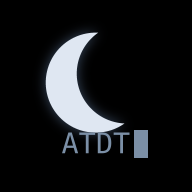
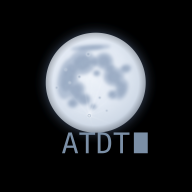
Add files via upload

Changed region(s): [[0.2188, 0.1562, 0.7812, 0.6875], [0.6875, 0.6562, 0.7812, 0.8438]]

diff --git a/index.html b/index.html
@@ -13,7 +13,7 @@
 <link rel="icon" href="icon-192.png">
 <link rel="apple-touch-icon" href="apple-touch-icon.png">
 <style>html,body{background:#000}</style>
-<style>#splash{display:none}.launch #splash{display:block;position:fixed;inset:0;z-index:300;background:#000;transition:opacity .35s ease;animation:splash-bye .35s ease 5s forwards}@keyframes splash-bye{to{opacity:0;visibility:hidden}}#splash.out{opacity:0;pointer-events:none}#splash svg{position:absolute;left:50%;top:50%;margin:-137px 0 0 -137px;transform:translateY(var(--spy,0px))}#splash.blink #spc{visibility:hidden}</style>
+<style>#splash{display:none}.launch #splash{display:block;position:fixed;inset:0;z-index:300;background:#000;transition:opacity .35s ease;animation:splash-bye .35s ease 9s forwards}@keyframes splash-bye{to{opacity:0;visibility:hidden}}#splash.out{opacity:0;pointer-events:none}#splash svg{position:absolute;left:50%;top:50%;margin:-137px 0 0 -137px;transform:translateY(var(--spy,0px))}#splash.blink #spc{visibility:hidden}</style>
 <script>try{if(matchMedia("(display-mode: standalone)").matches||navigator.standalone||/[?&]splash\b/.test(location.search)){const r=document.documentElement,b=Math.max(0,screen.height-innerHeight);r.classList.add("launch");r.style.setProperty("--spy",Math.max(-24,Math.min(24,b/2-Math.min(32,b)))+"px")}}catch(e){}</script>
 </head>
 <body>
@@ -198,7 +198,7 @@ footer{margin:26px 0 10px;color:var(--ink-faint);font-size:.88em;line-height:1.9
       <label>취침 타이머 <button id="timerbtn">끄지 않음</button></label>
       <span id="timernote" class="faint"></span>
     </div>
-    <p class="note faint" style="margin-top:10px">화면을 꺼도 재생이 이어지도록 처리해 두었습니다. 지금 그대로 끄고 주무셔도 됩니다(갤럭시 기준). 아이폰은 크롬 사용을 권장합니다.</p>
+    <p class="note faint" style="margin-top:10px">화면을 꺼도 재생이 이어지도록 처리해 두었습니다. 지금 그대로 끄고 주무셔도 됩니다(갤럭시 기준).</p>
     <p class="note ac" id="noaudio" style="margin-top:10px" hidden></p>
   </div>
   <p class="whisper"><button id="awakebtn">정말 잠이 안 오시나요?</button></p>
@@ -225,7 +225,7 @@ footer{margin:26px 0 10px;color:var(--ink-faint);font-size:.88em;line-height:1.9
     <p class="note">수면을 위한 PC통신 심야접속에 들어오셨습니다. 소리는 전부 무료고, 아무도 당신을 깨우지 않습니다. 화면 테두리는 슬리핑백입니다 — 당신은 지금 그 안에 있습니다.</p>
     <hr>
     <p class="dim">· <span class="hi">소리</span> — 다섯 채널 모두 접속한 당신의 단말기가 그 자리에서 만드는 소리입니다. 녹음된 음원이 없으니 권리 문제도, 서버 비용도 없습니다. 분홍 소음 위에 파도·비·바람·불을 얹었습니다.</p>
-    <p class="dim">· <span class="hi">화면은 꺼도 됩니다</span> — 지금 그대로 끄고 주무셔도 됩니다(갤럭시 기준). 아이폰은 크롬 사용을 권장합니다.</p>
+    <p class="dim">· <span class="hi">화면은 꺼도 됩니다</span> — 지금 그대로 끄고 주무셔도 됩니다(갤럭시 기준).</p>
     <p class="dim">· <span class="hi">비행기 모드</span> — 심야접속은 스트리밍이 아닙니다. 프로그래밍입니다. 따라서 접속 후에는 비행기 모드로 바꾸셔도 정상 작동합니다. 한 번 접속한 브라우저에서는 다음부터 인터넷 없이도 열립니다.</p>
     <p class="dim">· <span class="hi">취침 타이머</span> — 청취방에서 30분, 또는 1시간부터 8시간까지 고르면 그 시각에 조용히 멈춥니다.</p>
     <p class="dim">· <span class="hi">가입 없음</span> — 아이디도, 전화번호도, 이메일도 받지 않습니다. 남는 것은 이 단말기 안의 "함께 한 시간"뿐입니다.</p>
@@ -334,6 +334,8 @@ function ensureCtx(){
   if(AU.ctx)return;if(IS_IOS){try{if(navigator.audioSession)navigator.audioSession.type="playback"}catch(e){}}const AC=window.AudioContext||window.webkitAudioContext;
   /* 'playback'은 출력 버퍼를 넉넉히 잡는다. 다른 프로그램이 CPU를 잠깐 다 써도(페이스북 알림 같은) 소리가 끊기지 않게. 잠드는 소리엔 지연이 상관없다 */
   try{AU.ctx=new AC({latencyHint:"playback"})}catch(e){diagNote("맥락(playback)",e);try{AU.ctx=new AC()}catch(e2){diagNote("맥락",e2);if(IS_IOS&&navigator.audioSession){try{navigator.audioSession.type="auto"}catch(_){}AU.ctx=new AC()}else throw e2}}
+  /* 시스템이 소리 장치를 멈추면(아이폰: 이어폰을 뺄 때 등) 소리가 나야 할 때·보이는 동안엔 바로 다시 깨운다 */
+  AU.ctx.onstatechange=()=>{const c=AU.ctx,s=c.state;if(s==="running"||s==="closed")return;diagNote("소리 장치",s);const want=()=>AU.curId||performance.now()<(AU.modemEnd||0),wake=()=>{if(c.state!=="running"&&c.state!=="closed"&&!document.hidden&&want())c.resume().catch(e=>diagNote("다시 깨우기",e))};if(!want())return;if(document.hidden)document.addEventListener("visibilitychange",function v(){if(!document.hidden){document.removeEventListener("visibilitychange",v);setTimeout(wake,250)}});else setTimeout(wake,250)};
   AU.timerGain=AU.ctx.createGain();AU.master=AU.ctx.createGain();AU.master.gain.value=volCurve(ls.get("vol",35));
   AU.comp=AU.ctx.createDynamicsCompressor();AU.comp.threshold.value=-14;AU.comp.ratio.value=5;AU.comp.attack.value=0.01;AU.comp.release.value=0.3;
   AU.analyser=AU.ctx.createAnalyser();AU.analyser.fftSize=512;AU.analyser.smoothingTimeConstant=0.35;
@@ -492,24 +494,26 @@ document.addEventListener("keydown",e=>{
 let booted=false,bootTimers=[],canSkip=false,dialedWithSound=false;
 const LOG_FULL=[[0,"ATDT 0131033"],[0.3,"DIALING ........"],[2.2,"CARRIER DETECTED"],[3.1,"HANDSHAKE  V.32bis"],[4.8,"TRAINING ............"],[8.8,"EQUALIZING ......"],[11.7,"PROTOCOL: LAP-M   COMPRESSION: V.42bis"],[14.9,"CONNECT 14400"],[15.5,"심야접속 BBS에 오신 것을 환영합니다.\n회선은 느리고, 밤은 깁니다."]];
 const LOG_QUIET=[[0,"ATDT 0131033  (무음)"],[0.5,"CONNECT 14400"],[1.0,"심야접속 BBS에 오신 것을 환영합니다.\n회선은 느리고, 밤은 깁니다."]];
+/* 소리 장치를 막 켰으면 오디오 시계가 실제로 흐를 때까지(아이폰 0.4초, 그 밖 0.25초, 최대 1.5초) 기다렸다가 부른다 — 켜는 순간 앞소리가 잘리지 않게 */
+function whenAudible(fn,fresh){if(!fresh||!AU.ctx)return fn();const t0=performance.now(),need=IS_IOS?0.4:0.25;let c0=null;const poll=()=>{const c=AU.ctx;if(c.state==="running"){if(c0===null)c0=c.currentTime;if(c.currentTime-c0>=need)return fn()}if(performance.now()-t0>1500)return fn();bootTimers.push(setTimeout(poll,30))};poll()}
 function runConnect(withSound){
-  if(bootTimers.length||booted)return;const log=$("#introlog");log.hidden=false;log.textContent="";log.innerHTML="";$("#dialbtn").disabled=true;$("#quietbtn").disabled=true;
+  if(bootTimers.length||booted)return;const fresh=!AU.ctx||AU.ctx.state!=="running";const log=$("#introlog");log.hidden=false;log.textContent="";log.innerHTML="";$("#dialbtn").disabled=true;$("#quietbtn").disabled=true;
   try{ensureCtx();ensureRoute();if(AU.ctx.state!=="running")AU.ctx.resume().catch(e=>diagNote("깨우기",e));if(IS_IOS){const b=AU.ctx.createBuffer(1,1,AU.ctx.sampleRate),u=AU.ctx.createBufferSource();u.buffer=b;u.connect(AU.ctx.destination);u.start(0)}}catch(e){diagNote("접속 준비",e)}
   const hang=withSound&&AU.curId?(stopAll(),600):0;
   const go=()=>{
-  let total=0;if(withSound){modemDirectOn();try{total=modemPlay()}catch(e){total=0;diagNote("모뎀",e)}if(total)AU.modemEnd=performance.now()+total*1000;else modemDirectOff()}
+  let total=0;if(withSound){modemDirectOn();try{total=modemPlay()}catch(e){total=0;diagNote("모뎀",e)}if(total){AU.modemEnd=performance.now()+total*1000;AU.modemEndCtx=AU.ctx.currentTime+0.08+total}else modemDirectOff()}
   dialedWithSound=!!(withSound&&total);
   const lines=withSound&&total?LOG_FULL:LOG_QUIET;const scale=REDUCED?0.35:1;
   lines.forEach(([t,l],i)=>bootTimers.push(setTimeout(()=>{const last=i===lines.length-1;const sp=document.createElement("span");sp.textContent=(log.childNodes.length?(last?"\n\n":"\n"):"")+l;if(last)sp.className="brite";log.append(sp);if(last){canSkip=true;$("#skiphint").hidden=false}},t*1000*scale)));
   const end=(lines[lines.length-1][0]+(withSound?4.8:3.0))*1000*scale;
   bootTimers.push(setTimeout(finishBoot,end));
-  };if(hang)bootTimers.push(setTimeout(go,hang));else go();
+  };const start=()=>whenAudible(go,withSound&&fresh);if(hang)bootTimers.push(setTimeout(start,hang));else start();
 }
 function resetIntro(){if(AU.curId)stopAll();bootTimers.forEach(clearTimeout);bootTimers=[];booted=false;canSkip=false;dialedWithSound=false;const lg=$("#introlog");lg.hidden=true;lg.textContent="";$("#skiphint").hidden=true;$("#dialbtn").disabled=false;$("#quietbtn").disabled=false;$("#linestate").textContent="대기"}
 function afterBoot(){const h=NAV.wanted;NAV.wanted="";show("main");if(h&&h!=="main"&&VIEWS.includes(h)&&h!=="intro")show(h)}
 function finishBoot(){
   if(booted)return;booted=true;bootTimers.forEach(clearTimeout);bootTimers=[];$("#linestate").textContent="접속됨 14400bps";
-  if(!AU.curId){const go=()=>{modemDirectOff();try{ensureRoute();playChannel(1)}catch(e){}};const w=AU.modemDirect?Math.max(0,(AU.modemEnd||0)-performance.now()+150):0;if(w)setTimeout(go,w);else go()}
+  if(!AU.curId){const go=()=>{modemDirectOff();try{ensureRoute();playChannel(1)}catch(e){}};const c=AU.ctx,w=c&&c.state==="running"&&AU.modemEndCtx?Math.max(0,(AU.modemEndCtx-c.currentTime)*1000+150):(AU.modemDirect?Math.max(0,(AU.modemEnd||0)-performance.now()+150):0);if(w)setTimeout(go,w);else go()}
   afterBoot();
 }
 $("#dialbtn").addEventListener("click",()=>runConnect(true));
@@ -573,8 +577,8 @@ setInterval(tick,1000);
 document.addEventListener("visibilitychange",()=>{leanFlush();if(!document.hidden){tick();if(timerEndAt&&Date.now()>=timerEndAt)stopAll()}});
 
 /* ============ 시작 ============ */
-/* 앱 아이콘으로 열었을 때: 안드로이드 시작 화면과 똑같은 로고를 페이지가 열리기 시작한 때부터 모두 3초 — 커서는 깜빡이고 끝 0.35초에 스르르(누르면 바로 넘어감) */
-(function(){const s=$("#splash");if(!s||!document.documentElement.classList.contains("launch"))return;const end=()=>{if(s.classList.contains("out"))return;s.classList.add("out");setTimeout(()=>s.remove(),450)};s.addEventListener("click",end);requestAnimationFrame(()=>{const n=performance.now(),fade=Math.max(n+800,2650);if(!REDUCED)for(let t=Math.max(n+700,900);t+600<=fade;t+=1000){setTimeout(()=>s.classList.add("blink"),t-n);setTimeout(()=>s.classList.remove("blink"),t+500-n)}setTimeout(end,fade-n)})})();
+/* 앱 아이콘으로 열었을 때: 안드로이드 시작 화면과 똑같은 로고 — 켜진 커서가 다섯 번 보이고(일, 이, 삼, 사, 오) 다시 꺼지기 직전에 스르르 첫 화면으로(누르면 바로 넘어감) */
+(function(){const s=$("#splash");if(!s||!document.documentElement.classList.contains("launch"))return;const end=()=>{if(s.classList.contains("out"))return;s.classList.add("out");setTimeout(()=>s.remove(),450)};s.addEventListener("click",end);requestAnimationFrame(()=>{const n=performance.now(),t1=Math.max(n+700,900),fade=t1+4000;if(!REDUCED)for(let t=t1;t<fade;t+=1000){setTimeout(()=>s.classList.add("blink"),t-n);setTimeout(()=>s.classList.remove("blink"),t+500-n)}setTimeout(end,fade-n)})})();
 applyLum();renderChans();vuLoop();tick();tryAutoplay();
 if(NO_AUDIO){const n=$("#noaudio");n.innerHTML=NOAUDIO_HTML;n.hidden=false}
 try{new ResizeObserver(()=>{const sb=$("#statusbar");document.documentElement.style.setProperty("--sbh",(sb.offsetHeight?sb.offsetHeight+32:120)+"px")}).observe($("#statusbar"))}catch(e){}

diff --git a/d/index.html b/d/index.html
@@ -3,10 +3,10 @@
 <head>
 <meta charset="utf-8">
 <meta name="viewport" content="width=device-width,initial-scale=1,viewport-fit=cover">
-<title>수면 PC통신 — 심야접속 Deluxe</title>
+<title>수면 PC통신 — 심야접속 Deluxe 모드</title>
 <meta name="description" content="잠 못 드는 밤을 위한 핑크노이즈 방송국. 100% 무료, 광고 없음. 해변·카페·하늘·서가·초원 다섯 세계에 조용한 흔적을 남깁니다. 1990년대 PC통신처럼 접속하는 수면 웹앱.">
 <meta name="theme-color" content="#000000">
-<meta property="og:title" content="수면 PC통신 — 심야접속 Deluxe">
+<meta property="og:title" content="수면 PC통신 — 심야접속 Deluxe 모드">
 <meta property="og:description" content="잠 못 드는 밤을 위한 핑크노이즈 방송국. 100% 무료, 광고 없음. 다섯 세계와 조용한 흔적.">
 <meta property="og:image" content="icon-512.png">
 <link rel="manifest" href="manifest.webmanifest">
@@ -17,7 +17,7 @@
 <script>try{if(matchMedia("(display-mode: standalone)").matches||navigator.standalone||/[?&]splash\b/.test(location.search)){const r=document.documentElement,b=Math.max(0,screen.height-innerHeight);r.classList.add("launch");r.style.setProperty("--spy",Math.max(-24,Math.min(24,b/2-Math.min(32,b)))+"px")}}catch(e){}</script>
 </head>
 <body>
-<div id="splash" aria-hidden="true"><svg xmlns="http://www.w3.org/2000/svg" viewBox="0 0 512 512" width="274" height="274"><filter id="spg" filterUnits="userSpaceOnUse" x="0" y="0" width="512" height="512"><feGaussianBlur stdDeviation="15.5"/></filter><defs><path id="spm" d="M261.28 123.95A96.66 96.66 0 1 0 314.19 298.14A95.06 95.06 0 0 1 261.28 123.95Z"/></defs><use href="#spm" fill="rgb(57.8,73.8,95.7)" filter="url(#spg)"/><use href="#spm" fill="#DFE7F2"/><path d="M206.54 353.81 200.82 374.33H212.26ZM203.27 349.03H209.85L222.12 389.12H216.51L213.55 378.68H199.51L196.61 389.12H190.99ZM224.38 349.03H254.96V353.6H242.42V389.12H236.97V353.6H224.38ZM267.93 384.67Q274.78 384.67 277.5 381.3Q280.21 377.93 280.21 369.12Q280.21 360.23 277.51 356.86Q274.81 353.49 267.93 353.49H265.36V384.67ZM268.04 349.03Q277.23 349.03 281.58 353.92Q285.93 358.81 285.93 369.12Q285.93 379.38 281.58 384.25Q277.23 389.12 268.04 389.12H259.9V349.03ZM290.6 349.03H321.19V353.6H308.65V389.12H303.2V353.6H290.6Z" fill="#7B8FA6"/><rect id="spc" x="329" y="345" width="27" height="52" fill="#7B8FA6"/></svg></div>
+<div id="splash" aria-hidden="true"><svg xmlns="http://www.w3.org/2000/svg" viewBox="0 0 512 512" width="274" height="274"><filter id="spg" filterUnits="userSpaceOnUse" x="0" y="0" width="512" height="512"><feGaussianBlur stdDeviation="15.5"/></filter><circle cx="256.61" cy="220.5" r="96.66" fill="rgb(57.8,73.8,95.7)" filter="url(#spg)"/><defs><clipPath id="spmc"><circle cx="256.61" cy="220.5" r="96.66"/></clipPath><radialGradient id="spms" cx="44%" cy="40%" r="62%"><stop offset="0" stop-color="#F1F5FB"/><stop offset=".55" stop-color="#E2E9F3"/><stop offset=".85" stop-color="#D0DAE7"/><stop offset="1" stop-color="#B7C3D4"/></radialGradient><filter id="spmb1" x="-30%" y="-30%" width="160%" height="160%"><feGaussianBlur stdDeviation="3.38"/></filter><filter id="spmb2" x="-30%" y="-30%" width="160%" height="160%"><feGaussianBlur stdDeviation="2.9"/></filter><filter id="spmb3" x="-30%" y="-30%" width="160%" height="160%"><feGaussianBlur stdDeviation="1.16"/></filter><filter id="spmn" x="0" y="0" width="100%" height="100%"><feTurbulence type="fractalNoise" baseFrequency="0.09" numOctaves="3" seed="7"/><feColorMatrix values="0 0 0 0 .62  0 0 0 0 .70  0 0 0 0 .80  0 0 0 .55 0"/></filter><radialGradient id="spmcr"><stop offset="0" stop-color="#9AABC2"/><stop offset=".62" stop-color="#A9B9CD"/><stop offset=".8" stop-color="#EEF3F9"/><stop offset="1" stop-color="#EEF3F9" stop-opacity="0"/></radialGradient><linearGradient id="spmray"><stop offset="0" stop-color="#FFFFFF" stop-opacity=".55"/><stop offset=".25" stop-color="#FFFFFF" stop-opacity=".22"/><stop offset="1" stop-color="#FFFFFF" stop-opacity="0"/></linearGradient><radialGradient id="spml" cx="50%" cy="50%" r="50%"><stop offset=".86" stop-color="#000" stop-opacity="0"/><stop offset="1" stop-color="#000" stop-opacity=".22"/></radialGradient></defs><g clip-path="url(#spmc)"><circle cx="256.61" cy="220.5" r="96.66" fill="url(#spms)"/><g fill="#AAB9CF" opacity=".9" filter="url(#spmb1)"><ellipse cx="230.51" cy="181.84" rx="26.1" ry="23.2" transform="rotate(-10 230.51 181.84)"/><ellipse cx="246.94" cy="152.84" rx="38.66" ry="5.32" transform="rotate(-4 246.94 152.84)"/><ellipse cx="273.04" cy="178.94" rx="17.4" ry="16.43" transform="rotate(20 273.04 178.94)"/><ellipse cx="291.41" cy="208.9" rx="20.3" ry="18.37" transform="rotate(15 291.41 208.9)"/><ellipse cx="314.61" cy="193.44" rx="11.12" ry="8.22" transform="rotate(-15 314.61 193.44)"/><ellipse cx="306.87" cy="234.03" rx="11.6" ry="20.3" transform="rotate(20 306.87 234.03)"/><ellipse cx="289.47" cy="243.7" rx="9.67" ry="8.7" transform="rotate(0 289.47 243.7)"/><ellipse cx="258.54" cy="202.13" rx="7.25" ry="5.8" transform="rotate(0 258.54 202.13)"/><ellipse cx="202.48" cy="212.77" rx="19.33" ry="40.6" transform="rotate(12 202.48 212.77)"/><ellipse cx="217.95" cy="234.03" rx="18.37" ry="15.47" transform="rotate(-20 217.95 234.03)"/><ellipse cx="233.41" cy="252.4" rx="14.5" ry="11.6" transform="rotate(10 233.41 252.4)"/><ellipse cx="212.15" cy="260.13" rx="10.63" ry="9.18" transform="rotate(0 212.15 260.13)"/><ellipse cx="251.78" cy="266.9" rx="6.77" ry="4.83" transform="rotate(0 251.78 266.9)"/><ellipse cx="253.71" cy="179.9" rx="12.57" ry="9.67" transform="rotate(0 253.71 179.9)"/><ellipse cx="283.67" cy="193.44" rx="11.6" ry="10.63" transform="rotate(30 283.67 193.44)"/><ellipse cx="302.04" cy="222.43" rx="9.67" ry="9.67" transform="rotate(0 302.04 222.43)"/><ellipse cx="210.21" cy="194.4" rx="16.43" ry="15.47" transform="rotate(0 210.21 194.4)"/><ellipse cx="221.81" cy="244.66" rx="12.57" ry="11.6" transform="rotate(0 221.81 244.66)"/></g><g fill="#92A4BD" opacity=".75" filter="url(#spmb2)"><ellipse cx="230.51" cy="181.84" rx="16.18" ry="14.38" transform="rotate(-10 230.51 181.84)"/><ellipse cx="246.94" cy="152.84" rx="23.97" ry="3.3" transform="rotate(-4 246.94 152.84)"/><ellipse cx="273.04" cy="178.94" rx="10.79" ry="10.19" transform="rotate(20 273.04 178.94)"/><ellipse cx="291.41" cy="208.9" rx="12.59" ry="11.39" transform="rotate(15 291.41 208.9)"/><ellipse cx="314.61" cy="193.44" rx="6.89" ry="5.09" transform="rotate(-15 314.61 193.44)"/><ellipse cx="306.87" cy="234.03" rx="7.19" ry="12.59" transform="rotate(20 306.87 234.03)"/><ellipse cx="289.47" cy="243.7" rx="5.99" ry="5.39" transform="rotate(0 289.47 243.7)"/><ellipse cx="258.54" cy="202.13" rx="4.49" ry="3.6" transform="rotate(0 258.54 202.13)"/><ellipse cx="202.48" cy="212.77" rx="11.99" ry="25.17" transform="rotate(12 202.48 212.77)"/><ellipse cx="217.95" cy="234.03" rx="11.39" ry="9.59" transform="rotate(-20 217.95 234.03)"/><ellipse cx="233.41" cy="252.4" rx="8.99" ry="7.19" transform="rotate(10 233.41 252.4)"/><ellipse cx="212.15" cy="260.13" rx="6.59" ry="5.69" transform="rotate(0 212.15 260.13)"/><ellipse cx="251.78" cy="266.9" rx="4.2" ry="3" transform="rotate(0 251.78 266.9)"/><ellipse cx="253.71" cy="179.9" rx="7.79" ry="5.99" transform="rotate(0 253.71 179.9)"/><ellipse cx="283.67" cy="193.44" rx="7.19" ry="6.59" transform="rotate(30 283.67 193.44)"/><ellipse cx="302.04" cy="222.43" rx="5.99" ry="5.99" transform="rotate(0 302.04 222.43)"/><ellipse cx="210.21" cy="194.4" rx="10.19" ry="9.59" transform="rotate(0 210.21 194.4)"/><ellipse cx="221.81" cy="244.66" rx="7.79" ry="7.19" transform="rotate(0 221.81 244.66)"/></g><g filter="url(#spmb3)"><rect x="244.04" y="283.26" width="101.49" height="2.09" transform="rotate(-70 244.04 284.3)" fill="url(#spmray)"/><rect x="244.04" y="283.6" width="77.33" height="1.39" transform="rotate(-40 244.04 284.3)" fill="url(#spmray)"/><rect x="244.04" y="283.49" width="86.99" height="1.62" transform="rotate(-100 244.04 284.3)" fill="url(#spmray)"/><rect x="244.04" y="283.72" width="67.66" height="1.16" transform="rotate(-130 244.04 284.3)" fill="url(#spmray)"/><rect x="244.04" y="283.72" width="53.16" height="1.16" transform="rotate(20 244.04 284.3)" fill="url(#spmray)"/><rect x="244.04" y="283.84" width="58" height="0.93" transform="rotate(-20 244.04 284.3)" fill="url(#spmray)"/><rect x="244.04" y="283.84" width="29" height="0.93" transform="rotate(70 244.04 284.3)" fill="url(#spmray)"/><rect x="244.04" y="283.84" width="43.5" height="0.93" transform="rotate(-160 244.04 284.3)" fill="url(#spmray)"/><rect x="244.04" y="283.72" width="106.33" height="1.16" transform="rotate(-85 244.04 284.3)" fill="url(#spmray)"/><rect x="244.04" y="283.84" width="86.99" height="0.93" transform="rotate(-55 244.04 284.3)" fill="url(#spmray)"/></g><g filter="url(#spmb3)"><circle cx="242.11" cy="165.4" r="4.35" fill="url(#spmcr)"/><circle cx="224.71" cy="208.9" r="3.67" fill="url(#spmcr)"/><circle cx="198.61" cy="195.37" r="2.71" fill="url(#spmcr)"/><circle cx="181.22" cy="230.17" r="3.29" fill="url(#spmcr)"/><circle cx="264.34" cy="249.5" r="2.9" fill="url(#spmcr)"/><circle cx="277.88" cy="274.63" r="2.61" fill="url(#spmcr)"/><circle cx="206.35" cy="220.5" r="2.51" fill="url(#spmcr)"/></g><circle cx="244.04" cy="284.3" r="4.83" fill="url(#spmcr)"/><circle cx="244.04" cy="284.3" r="2.13" fill="#FFFFFF" filter="url(#spmb3)"/><rect x="159.95" y="123.84" width="193.32" height="193.32" filter="url(#spmn)" opacity=".22"/><circle cx="256.61" cy="220.5" r="96.66" fill="url(#spml)"/></g><path d="M206.54 353.81 200.82 374.33H212.26ZM203.27 349.03H209.85L222.12 389.12H216.51L213.55 378.68H199.51L196.61 389.12H190.99ZM224.38 349.03H254.96V353.6H242.42V389.12H236.97V353.6H224.38ZM267.93 384.67Q274.78 384.67 277.5 381.3Q280.21 377.93 280.21 369.12Q280.21 360.23 277.51 356.86Q274.81 353.49 267.93 353.49H265.36V384.67ZM268.04 349.03Q277.23 349.03 281.58 353.92Q285.93 358.81 285.93 369.12Q285.93 379.38 281.58 384.25Q277.23 389.12 268.04 389.12H259.9V349.03ZM290.6 349.03H321.19V353.6H308.65V389.12H303.2V353.6H290.6Z" fill="#7B8FA6"/><rect id="spc" x="329" y="349.03" width="27" height="40.1" fill="#7B8FA6"/></svg></div>
 <link rel="stylesheet" href="https://fonts.googleapis.com/css2?family=Nanum+Gothic+Coding:wght@400;700&family=Courier+Prime:wght@400;700&family=Nanum+Pen+Script&family=Nanum+Myeongjo:wght@400;700&display=swap">
 <style>
 /* 레이아웃: 단말 1열(메뉴·설정) + 전면 세계(1인칭 슬리핑백 프레임) + 아래 상태줄 + 슬리핑백 테두리. 의도적 단일 다크 테마. */

diff --git a/sw.js b/sw.js
@@ -2,7 +2,7 @@
 const C="simya-v33-13";
 const CORE=["./","./index.html","./manifest.webmanifest","./icon-192.png","./icon-512.png"];
 self.addEventListener("install",e=>{e.waitUntil(caches.open(C).then(c=>c.addAll(CORE)));self.skipWaiting()});
-self.addEventListener("activate",e=>{e.waitUntil(caches.keys().then(ks=>Promise.all(ks.filter(k=>k!==C).map(k=>caches.delete(k)))).then(()=>self.clients.claim()))});
+self.addEventListener("activate",e=>{e.waitUntil(caches.keys().then(ks=>Promise.all(ks.filter(k=>k!==C&&!k.startsWith("simya-d-")).map(k=>caches.delete(k)))).then(()=>self.clients.claim()))});
 self.addEventListener("fetch",e=>{const r=e.request;if(r.method!=="GET")return;const u=new URL(r.url);
   if(u.origin===location.origin){e.respondWith(fetch(r).then(res=>{if(res.ok){const cp=res.clone();caches.open(C).then(c=>c.put(r,cp))}return res}).catch(()=>caches.match(r).then(m=>m||caches.match("./index.html"))));return}
   if(/fonts\.(googleapis|gstatic)\.com$/.test(u.hostname)){e.respondWith(caches.match(r).then(m=>m||fetch(r).then(res=>{const cp=res.clone();caches.open(C).then(c=>c.put(r,cp));return res})))}
